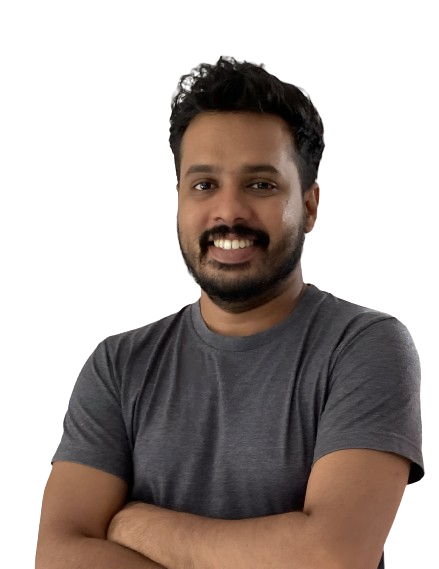
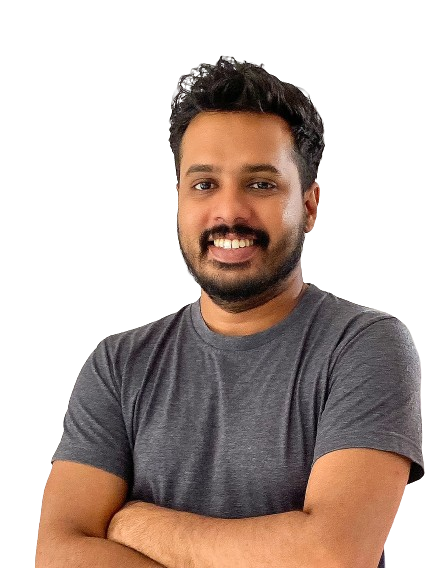
changed image and responsive issues fixed

diff --git a/src/layout/header/Header.tsx b/src/layout/header/Header.tsx
@@ -4,36 +4,63 @@ import ContactList from "../../components/ContactList";
 import NavBar from "../../components/NavBar";
 import ProfilePic from "../../components/ProfilePic/ProfilePic";
 
-import BasicInfo from '../../data/basic_info.json';
+import BasicInfo from "../../data/basic_info.json";
 
-import "./styles.scss"
+import "./styles.scss";
 
+const HeaderContactInfo = () => {
+  return (
+    <div>
+      <h2>{"Hello"}</h2>
+      <div id={"header-intro-sub"}>
+        <h4>{"I'm "}</h4>
+        <h1>{BasicInfo.displayName}</h1>
+      </div>
+      <ContactList showOnMobile={false} />
+    </div>
+  );
+};
 
 const HeaderInfo = () => {
-    return <div className="">
-        <h2>{"Hello"}</h2>
-        <div id={"header-intro-sub"}><h4>{"I'm "}</h4><h1>{BasicInfo.displayName}</h1></div>
-        <ContactList showOnMobile={false} />
-        <NavBar />
+  return (
+    <div className="container">
+      <Row>
+        <Col className="col-md-10 my-auto">
+          <HeaderContactInfo />
+        </Col>
+        <Col className="col-md-2">
+          <ProfilePic />
+        </Col>
+      </Row>
+      <Row>
+        <Col>
+          <NavBar />
+        </Col>
+      </Row>
     </div>
-}
-
+  );
+};
 
 const Header = () => {
+  return (
+    <Row className="header">
+      {/* on desktop screens */}
+      <Col id={"header-intro-desktop"} className={"col-md-12 pt-4"}>
+        <HeaderInfo />
+      </Col>
 
-    return <Row className="header">
-        {/* on desktop screens */}
-        <Col id={"header-intro-desktop"} className={"col-md-10 pt-5"}>
-             <HeaderInfo />    
-        </Col>
-        <Col id={"header-prof-pic"} className={"col-md-2"}>
-            <ProfilePic />
-        </Col>
-        {/* on mobile tab screens */}
-        <Col sm={12} id={"header-intro-mobile"} className={"text-center mt-3"}>
-            <HeaderInfo />
-        </Col>
-    </Row >
-}
+      {/* on mobile tab screens */}
+      <Col
+        sm={12}
+        id={"header-intro-mobile"}
+        className={"text-center mt-3"}
+      >
+        <HeaderContactInfo/>
+        <ProfilePic />
+        <NavBar />
+      </Col>
+    </Row>
+  );
+};
 
-export default Header
+export default Header;
